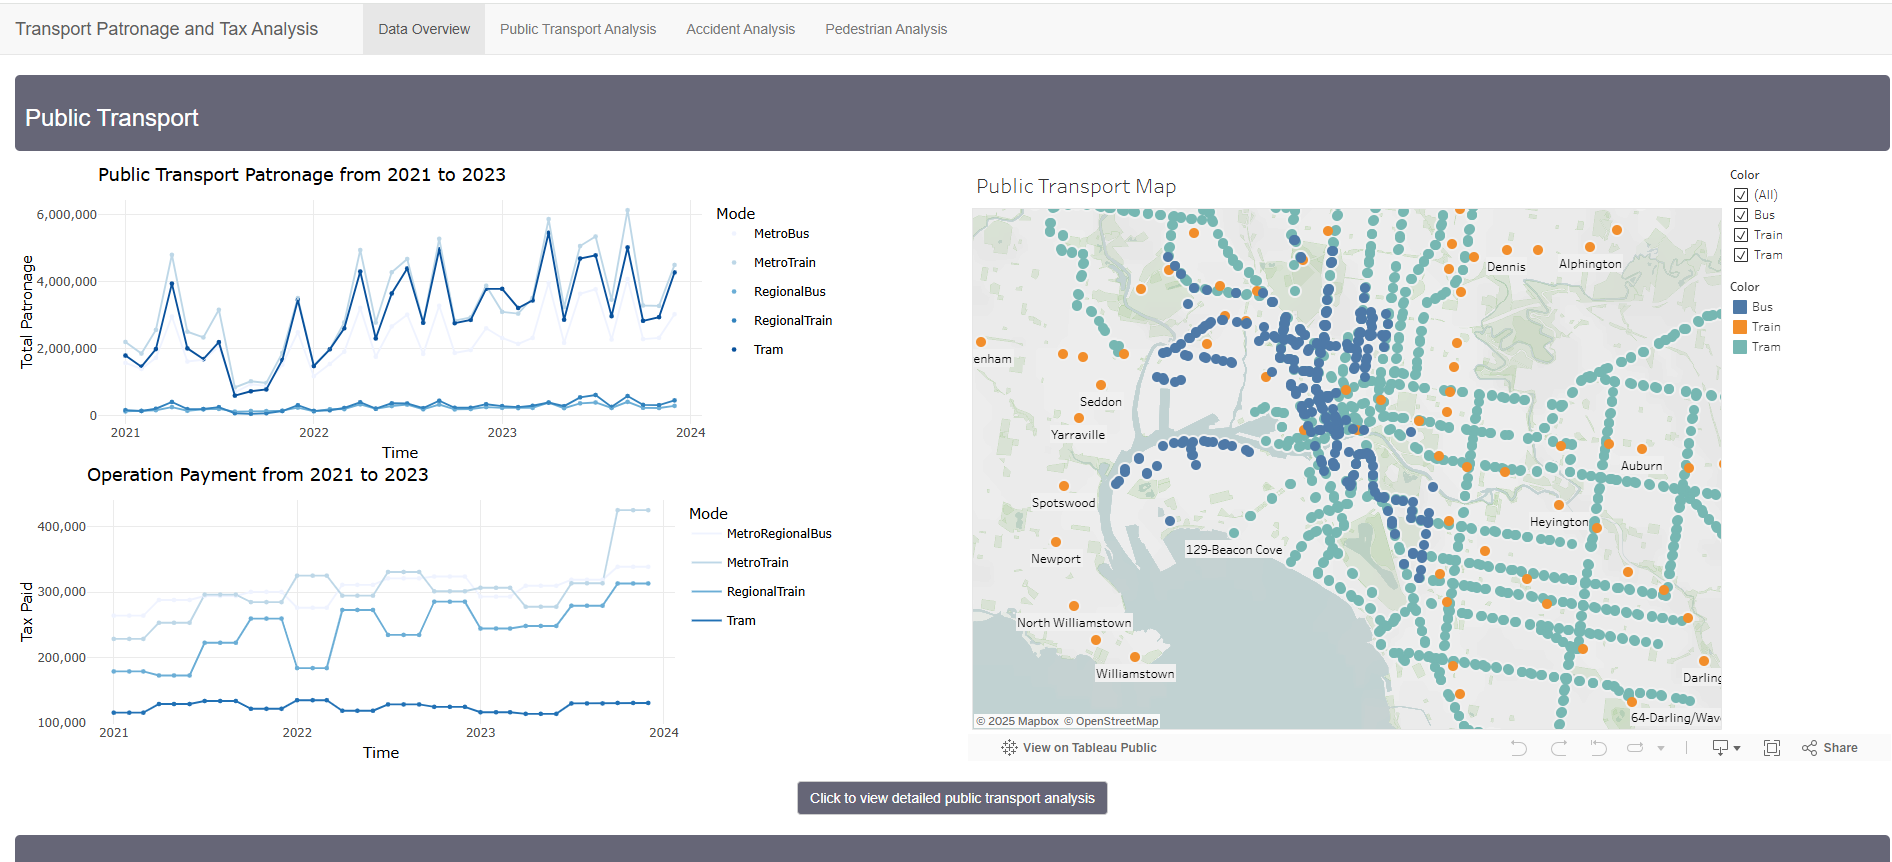
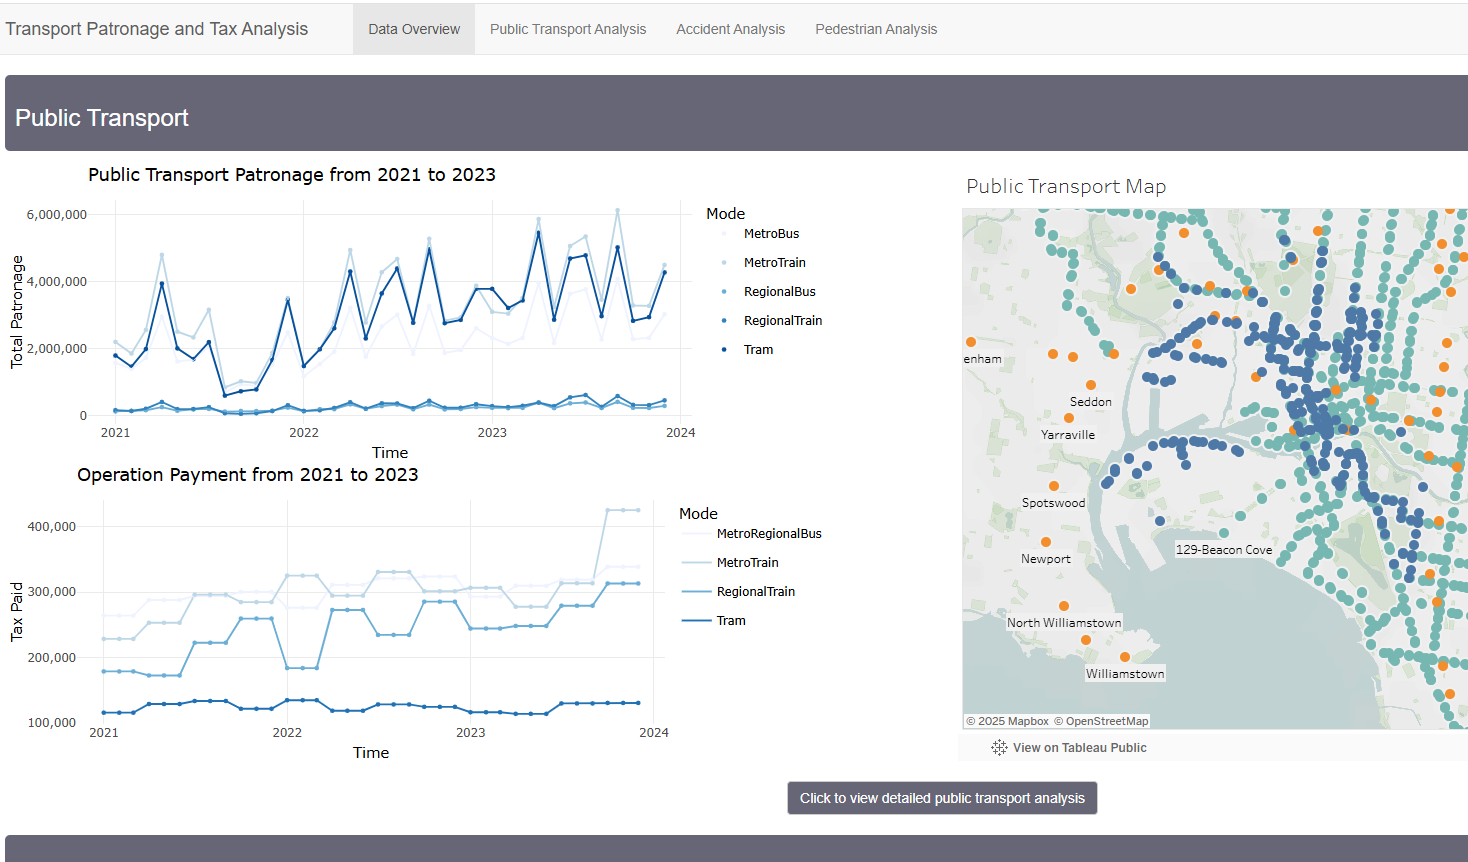
change transport analysis thumbnail

diff --git a/index.html b/index.html
@@ -677,7 +677,7 @@
                     <ion-icon name="eye-outline"></ion-icon>
                   </div>
 
-                  <img src="./assets/images/transport-analysis-2.png" alt="transport analysis" loading="lazy">
+                  <img src="./assets/images/transport-analysis.png" alt="transport analysis" loading="lazy">
                 </figure>
 
                 <h3 class="project-title">Post Pandemic Victoria Transport Analysis</h3>
